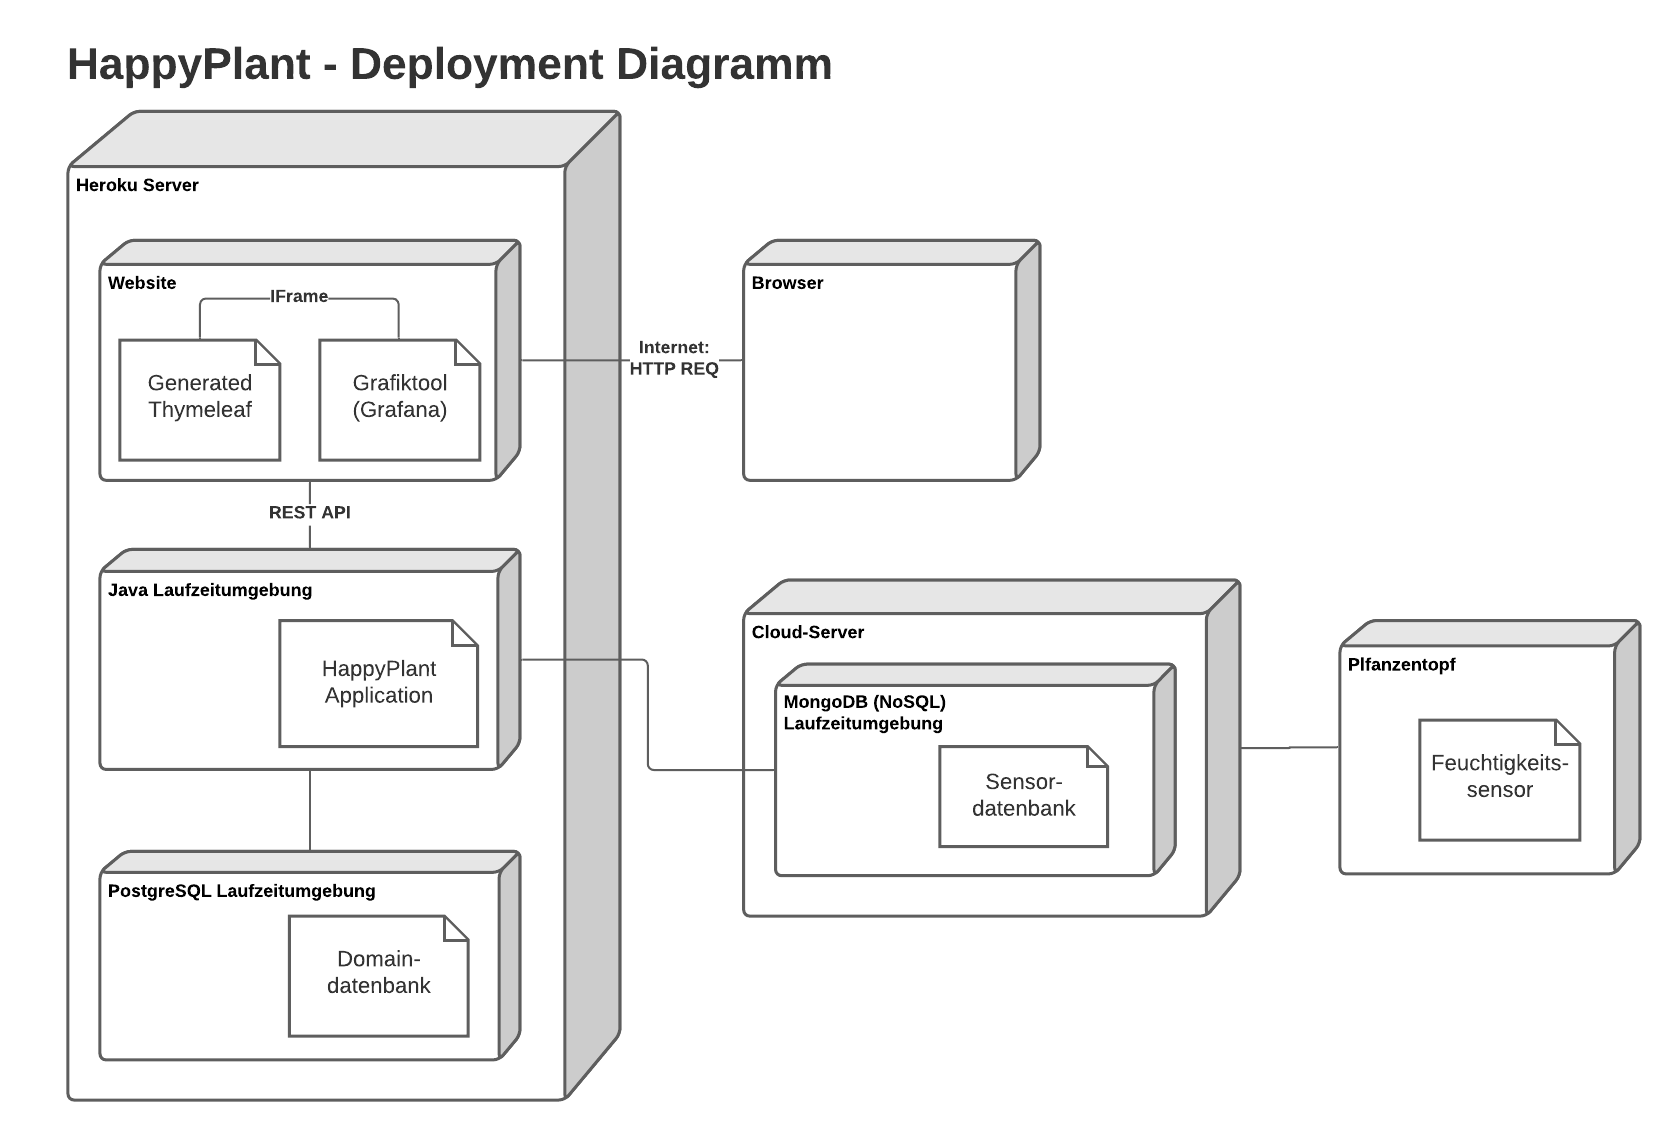
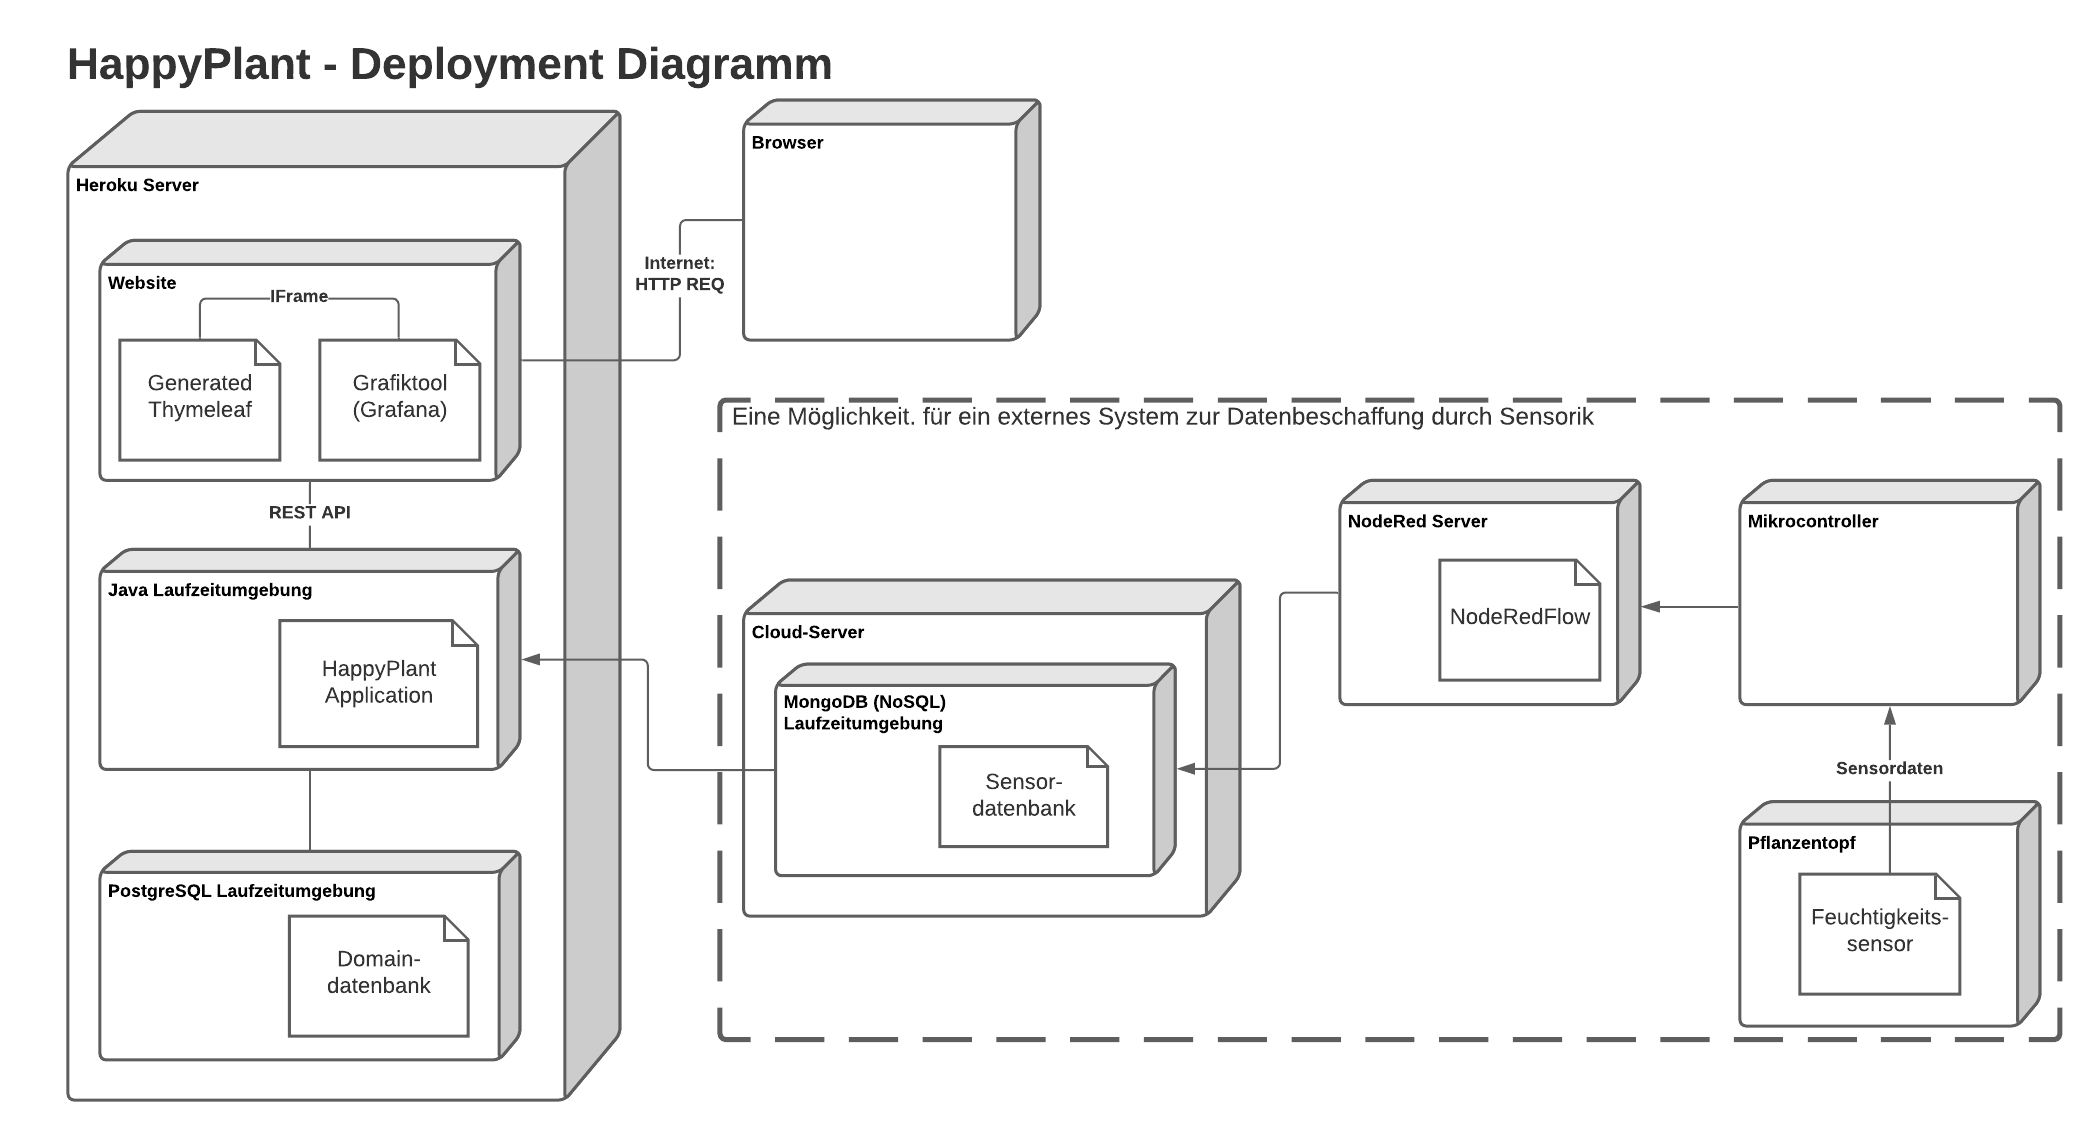
Updated ReadMe and Deployment Diagram

diff --git a/README.md b/README.md
@@ -45,7 +45,6 @@ in dem Dashboard für den Nutzer dargestellt werden. Dabei würde auch automatis
 Auf diesem System zur Datenbeschaffung soll unser System aufbauen, wobei die Festlegung des Grenzwertes auf der Website geschehen soll.
 
 ### Architektur
-TODO: Deploymentdiagramm aktualisieren und Text anpassen
 ![HappyPlant Deployment Diagramm](/Documentation/images/DeploymentDiagramm.png "HappyPlant Deployment Diagramm")
 
 Den Kern des Systems stellt der Heroku Server dar, auf dem die Java-Anwendung und die Domaindatenbank laufen, sowie die Website gehostet wird.
@@ -56,8 +55,6 @@ der Domaindatenbank und verknüpft diese mit den Sensordaten aus der Sensordaten
 Grafiktools, das als IFrame in das generierte HTML eingebunden wird, visualisiert.
 
 TODO: Architektur auf Sensorseite genauer beschreiben
-Die Erstellung weiterer Pflanzen/Töpfe bedarf daher eines getrennten Tools wie zB. NodeRed, wobei Töpfe mit Sensoren 
-ausgestattet und die erzeugten Daten als neues Objekt mit ID in die Datenbank geschrieben werden.
 
 ### Herausforderungen
 Durch den Einsatz von Sensorik fallen bereits einige Herausforderungen weg, wie zum Beispiel:
@@ -94,6 +91,8 @@ Balance gefunden werden? Es müssten schon bei der Wahl der Pflanzenarten, die m
 berücksichtigt und aufeinander abgestimmt werden. Die schlussendliche Entscheidung obliegt stets dem Nutzer.
 
 - TODO: Weitere Herausforderungen dokumentieren (zb Serverkosten)
+Die Erstellung weiterer Pflanzen/Töpfe bedarf daher eines getrennten Tools wie zB. NodeRed, wobei Töpfe mit Sensoren 
+ausgestattet und die erzeugten Daten als neues Objekt mit ID in die Sensordatenbank geschrieben werden.
 
 ### Umfang der Umsetzung des Prototyps
 Für die Umsetzung des Protoyps werden keine realen Sensordaten des MongoDB Servers verwendet, die uns von dem Entwickler des 
